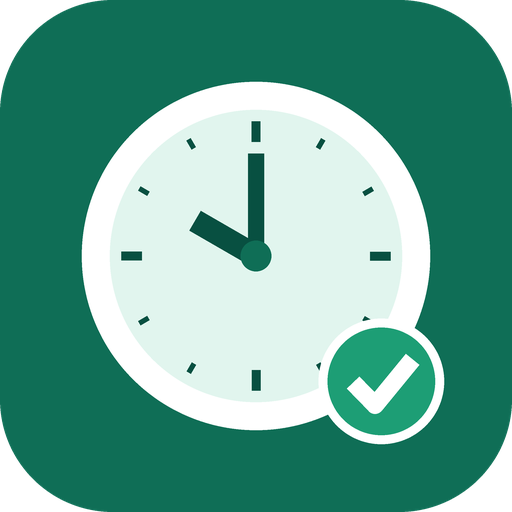
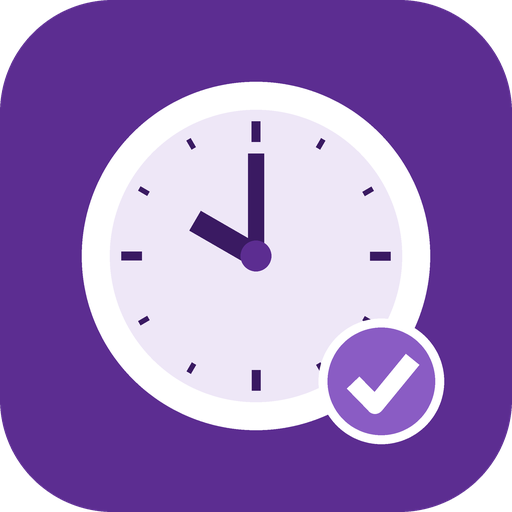
Ícono y colores en violeta
Claude-Session: https://claude.ai/code/session_01UeUM2Rtqenj18yjndpKLGB

diff --git a/index.html b/index.html
@@ -8,7 +8,7 @@
 <meta name="apple-mobile-web-app-capable" content="yes">
 <meta name="mobile-web-app-capable" content="yes">
 <meta name="apple-mobile-web-app-status-bar-style" content="default">
-<meta name="theme-color" content="#0F6E56">
+<meta name="theme-color" content="#5C2D91">
 <link rel="apple-touch-icon" href="apple-touch-icon.png">
 <link rel="icon" type="image/png" href="favicon.png">
 <link rel="manifest" href="manifest.webmanifest">
@@ -21,7 +21,7 @@ main{max-width:420px;margin:0 auto;display:flex;flex-direction:column;gap:18px;a
 .head img{width:96px;height:96px;border-radius:22px}
 h1{font-size:24px;margin-top:10px}
 .sub{color:#5b6b67;font-size:15px;margin-top:4px}
-.btn{display:block;text-align:center;background:#0F6E56;color:#fff;text-decoration:none;font-weight:600;font-size:17px;padding:16px;border-radius:14px}
+.btn{display:block;text-align:center;background:#5C2D91;color:#fff;text-decoration:none;font-weight:600;font-size:17px;padding:16px;border-radius:14px}
 .card{background:#fff;border:1px solid #e1e8e6;border-radius:14px;padding:16px}
 .card h2{font-size:16px;margin-bottom:8px}
 ol{padding-left:20px;line-height:1.7;font-size:15px}
